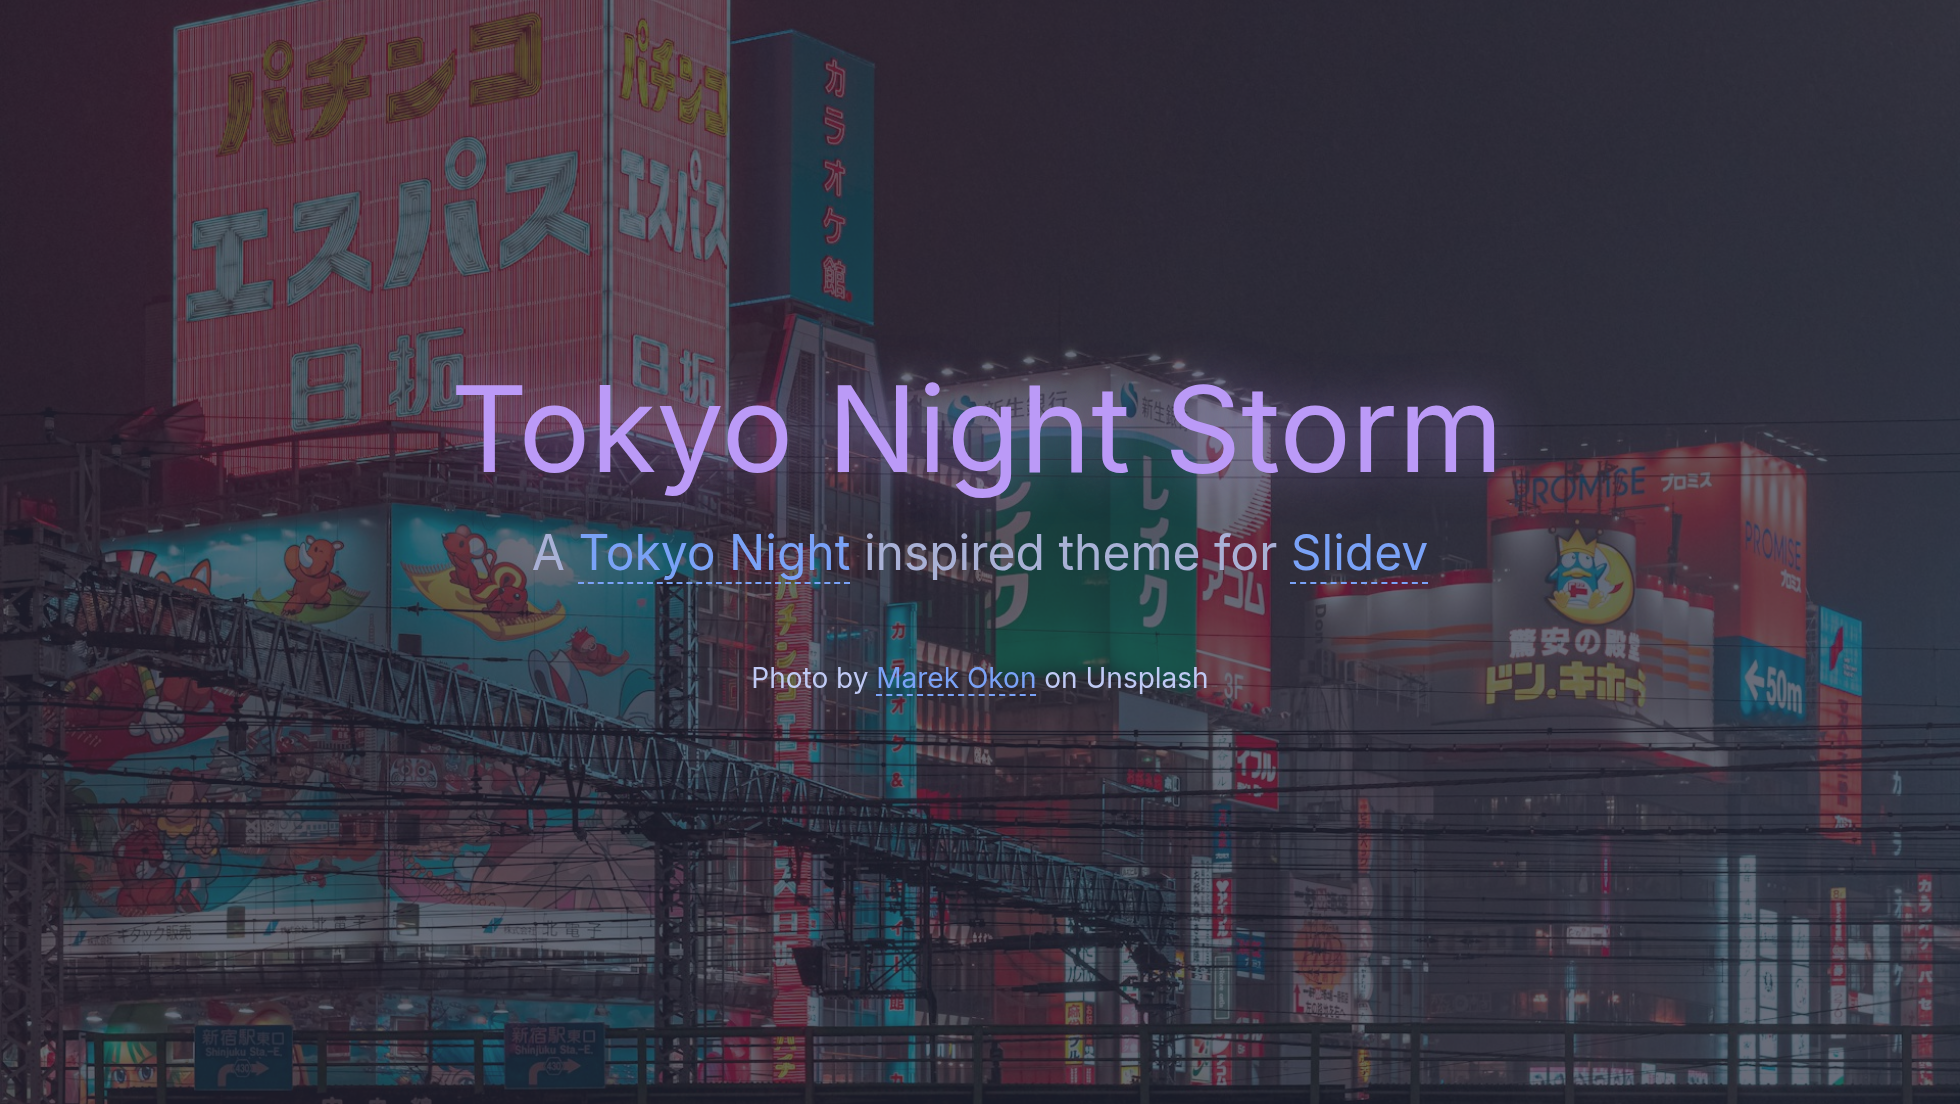
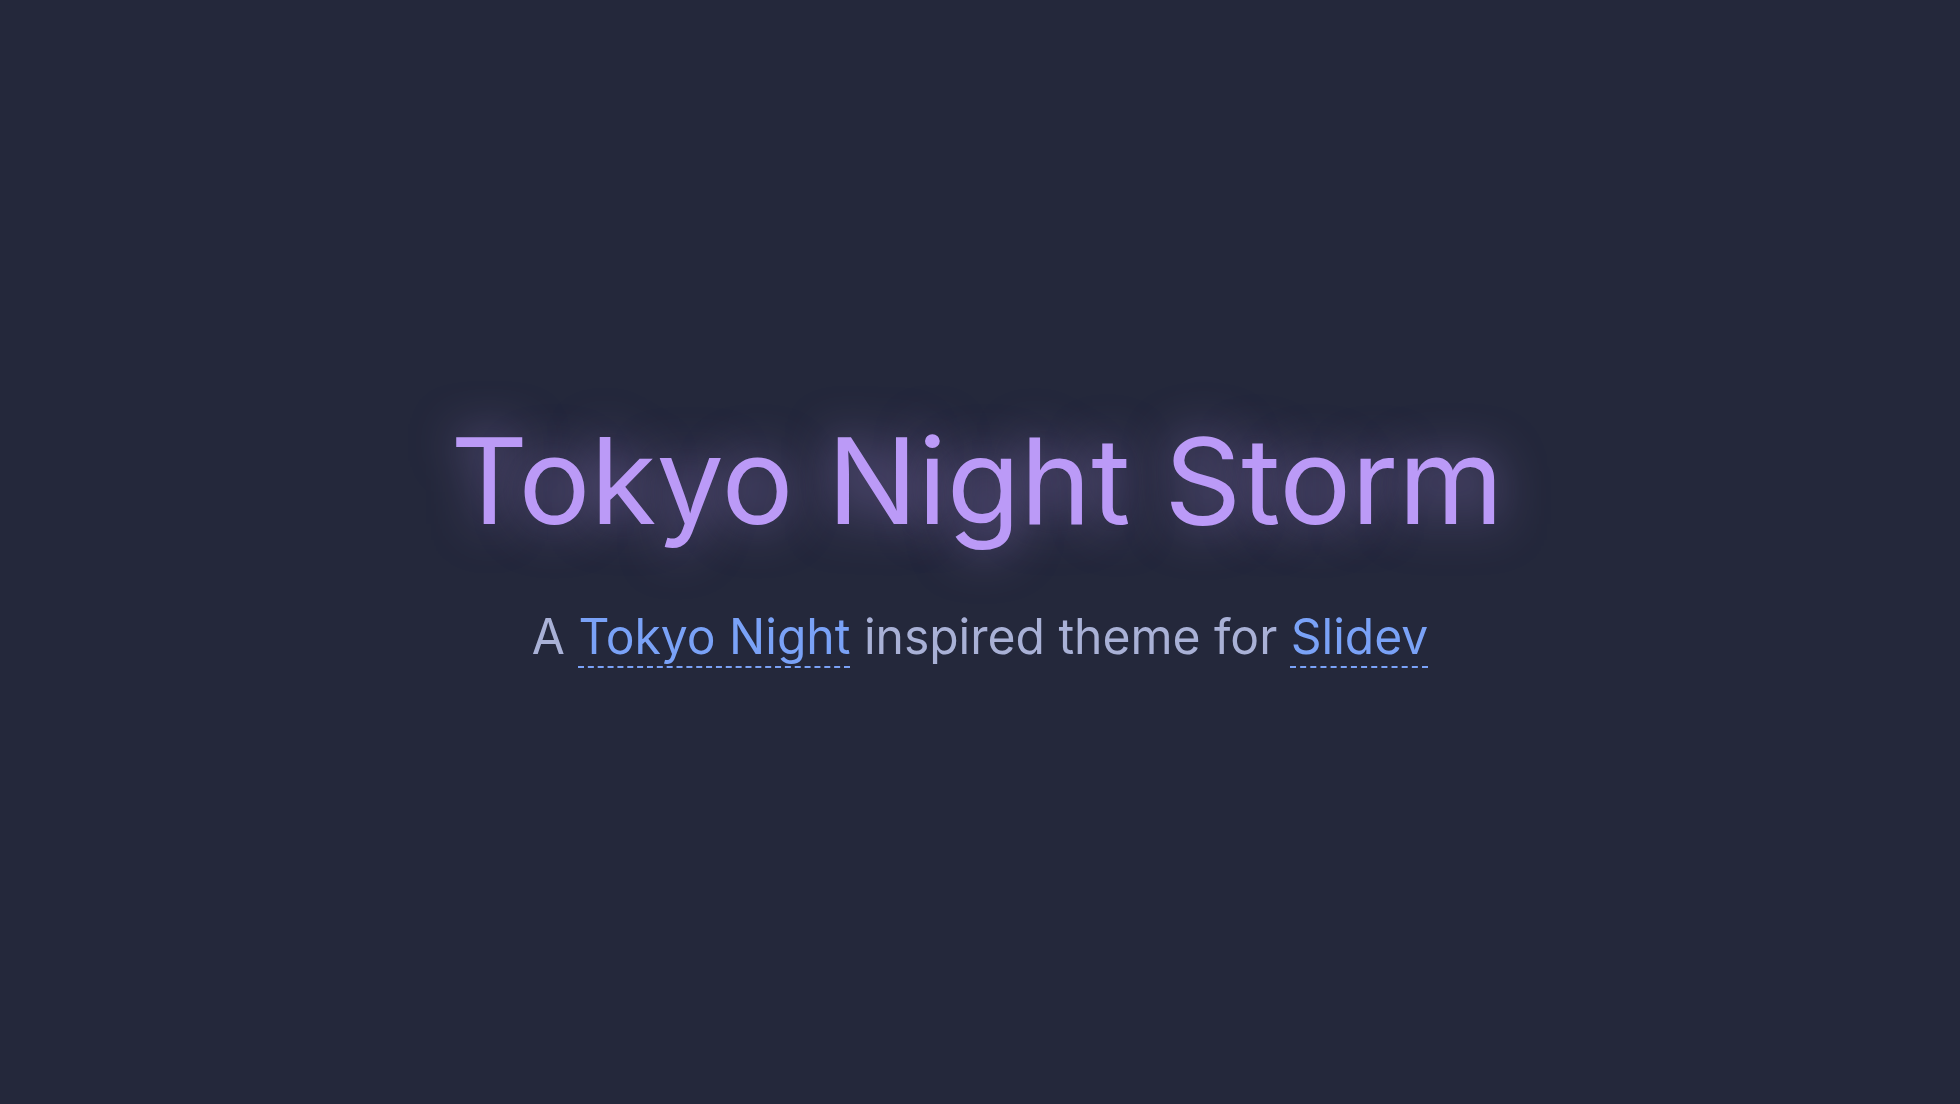
docs: plain cover and full-height image-right demo slide

diff --git a/README.md b/README.md
@@ -70,7 +70,7 @@ This theme uses Slidev's built-in layouts and styles them with the Tokyo Night p
 
 Other built-in layouts (`two-cols`, `image-right`, `center`, ...) work as normal. See `example.md` for usage.
 
-> **Local images:** Slidev only bundles relative image paths used in markdown or `<img>` tags. For layout frontmatter such as `image:` or `background:`, use a URL or put the file in your project's `public/` folder. `example.md` uses an `<img>` over a theme-coloured overlay for its cover.
+> **Local images:** Slidev only bundles relative image paths used in markdown or `<img>` tags. For layout frontmatter such as `image:` or `background:`, use a URL or put the file in your project's `public/` folder.
 
 ![Section](https://raw.githubusercontent.com/oller/slidev-theme-tokyo-night-storm/main/example-export/6.png)
 ![Fact](https://raw.githubusercontent.com/oller/slidev-theme-tokyo-night-storm/main/example-export/7.png)
@@ -82,7 +82,7 @@ Other built-in layouts (`two-cols`, `image-right`, `center`, ...) work as normal
 ## Credits
 
 - Palette: [Tokyo Night](https://github.com/enkia/tokyo-night-vscode-theme) by enkia and [tokyonight.nvim](https://github.com/folke/tokyonight.nvim) by folke
-- Cover photo (`assets/tokyo-night-neon.jpg`): [Marek Okon](https://unsplash.com/photos/9gtODWv-L5I) on [Unsplash](https://unsplash.com/) (Shinjuku neon rain), used under the [Unsplash License](https://unsplash.com/license). The image is used by `example.md` only and is not shipped in the npm package.
+- Demo photo (images slide): [Unsplash](https://images.unsplash.com/photo-1604315523775-74cee3df116c?q=80&w=1920&auto=format&fit=crop) (Tokyo neon street at night; photographer not identified), used under the [Unsplash License](https://unsplash.com/license). `example.md` hotlinks it via the `image-right` layout's `image:` URL; the local copy in `assets/tokyo-night-neon.jpg` is not used by the example and is not shipped in the npm package. The cover slide has no photo.
 
 ## Contributing
 

diff --git a/example.md b/example.md
@@ -4,21 +4,9 @@ layout: cover
 class: text-center
 ---
 
-<!-- Hero photo: a relative <img> is bundled by Vite (frontmatter `background`/`image` paths are not). -->
-<img src="./assets/tokyo-night-neon.jpg" alt="" class="absolute inset-0 w-full h-full object-cover" />
-<div class="absolute inset-0" style="background: color-mix(in srgb, var(--slidev-bg) 68%, transparent)" />
-
-<div class="relative z-10">
-
 # Tokyo Night Storm
 
 A [Tokyo Night](https://github.com/enkia/tokyo-night-vscode-theme) inspired theme for [Slidev](https://sli.dev/)
-
-</div>
-
-<div class="abs-br m-6 text-sm relative z-10">
-Photo by <a href="https://unsplash.com/photos/9gtODWv-L5I">Marek Okon</a> on Unsplash
-</div>
 
 ---
 
@@ -138,18 +126,13 @@ layout: two-cols
 - Midnight
 
 ---
-layout: default
+layout: image-right
+image: https://images.unsplash.com/photo-1604315523775-74cee3df116c?q=80&w=1920&auto=format&fit=crop
 ---
 
 # Images
 
-Slidev's `image-right` and `image-left` layouts work out of the box.
-
-<div class="grid grid-cols-2 gap-8 items-center">
+Slidev's `image-right` and `image-left` layouts work out of the box, filling the full slide height.
 
 - Neon-soaked city streets are a natural fit for Tokyo Night's palette
-- Photo by [Marek Okon](https://unsplash.com/photos/9gtODWv-L5I) on Unsplash
-
-<img src="./assets/tokyo-night-neon.jpg" alt="Neon rain in Shinjuku" class="rounded-lg shadow-xl" />
-
-</div>
+- Photo on [Unsplash](https://images.unsplash.com/photo-1604315523775-74cee3df116c?q=80&w=3850&auto=format&fit=crop&ixlib=rb-4.1.0&ixid=NHwxMjA3fDA%3D)

diff --git a/.changeset/full-height-image-demo.md b/.changeset/full-height-image-demo.md
@@ -1,0 +1,5 @@
+---
+"slidev-theme-tokyo-night-storm": patch
+---
+
+Use a plain themed cover (no photo) in the example, and show the demo Unsplash photo full-height via the built-in `image-right` layout with an `image:` URL.
